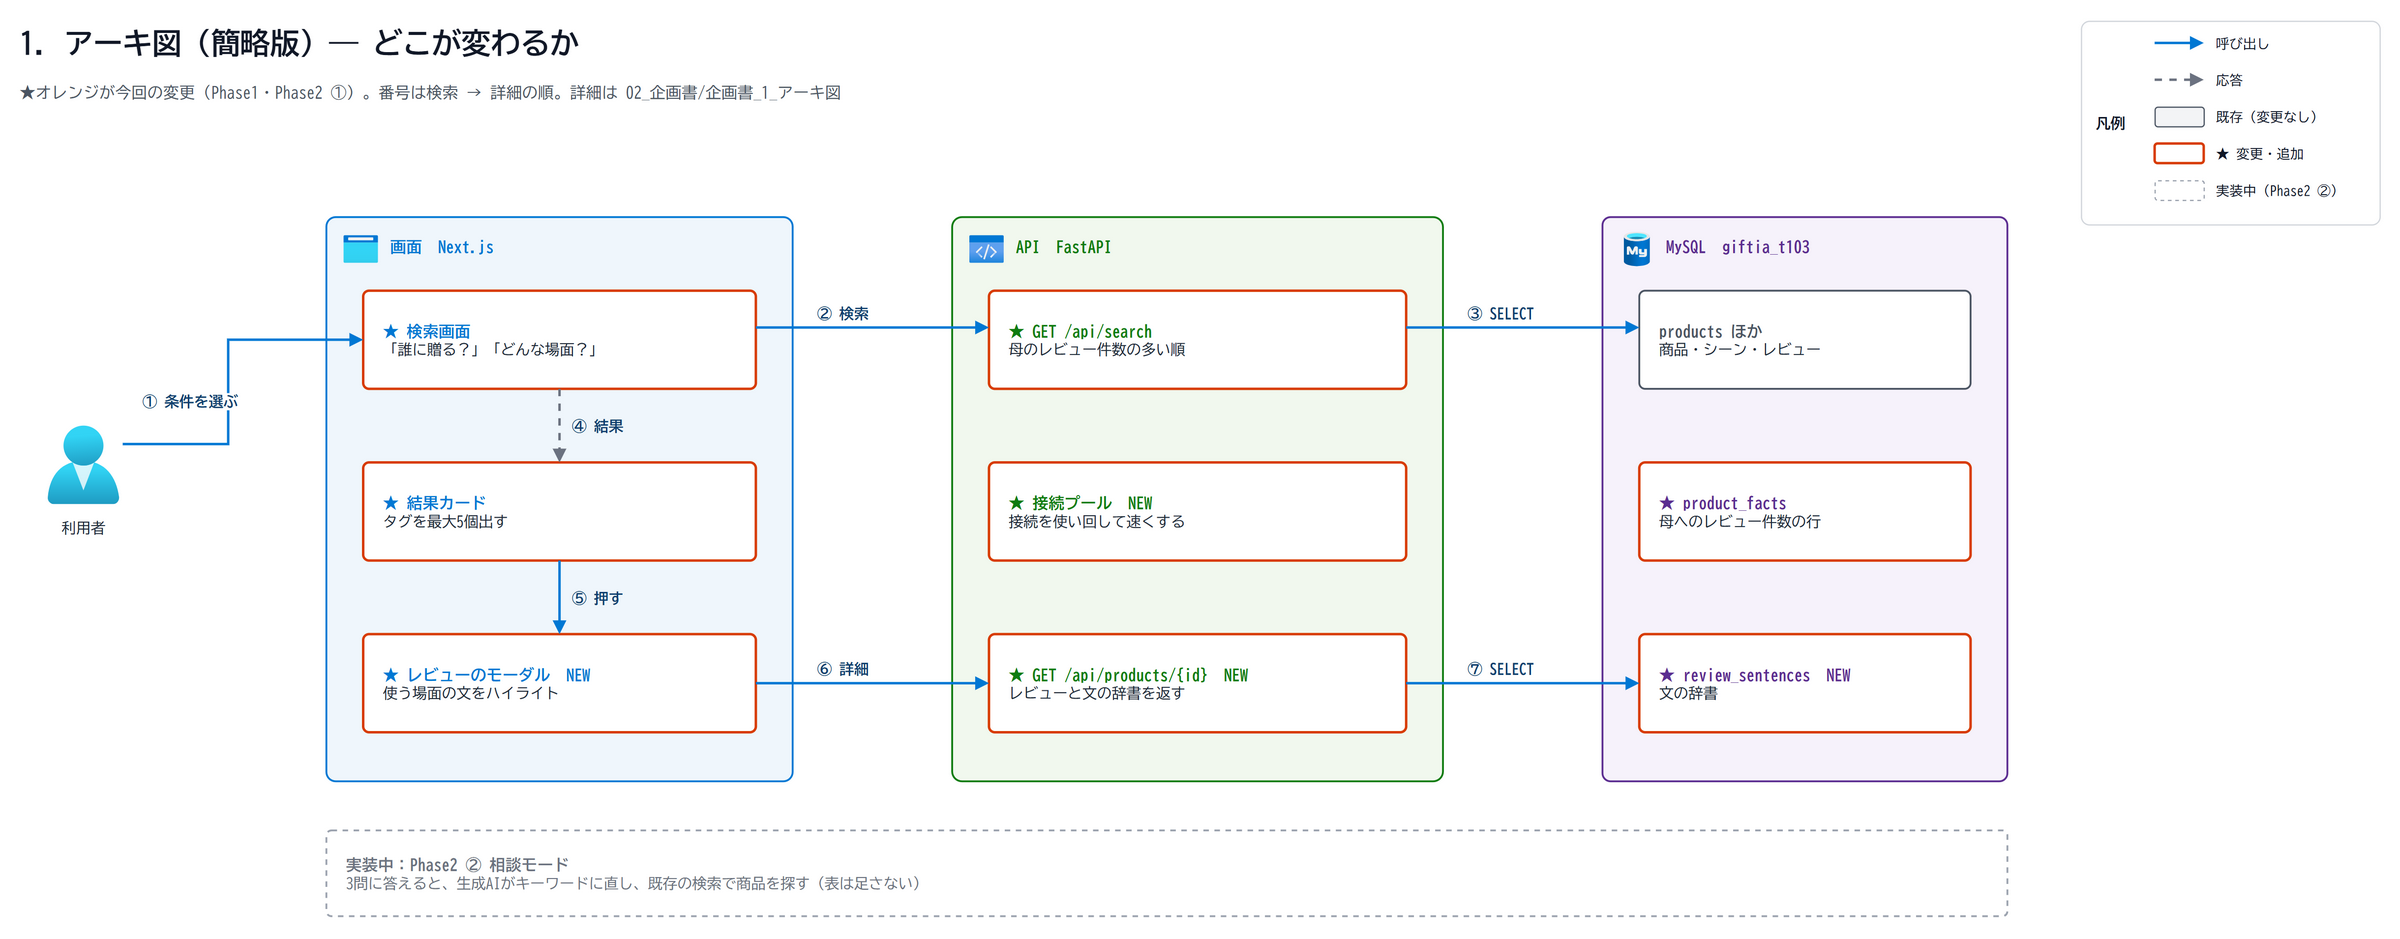
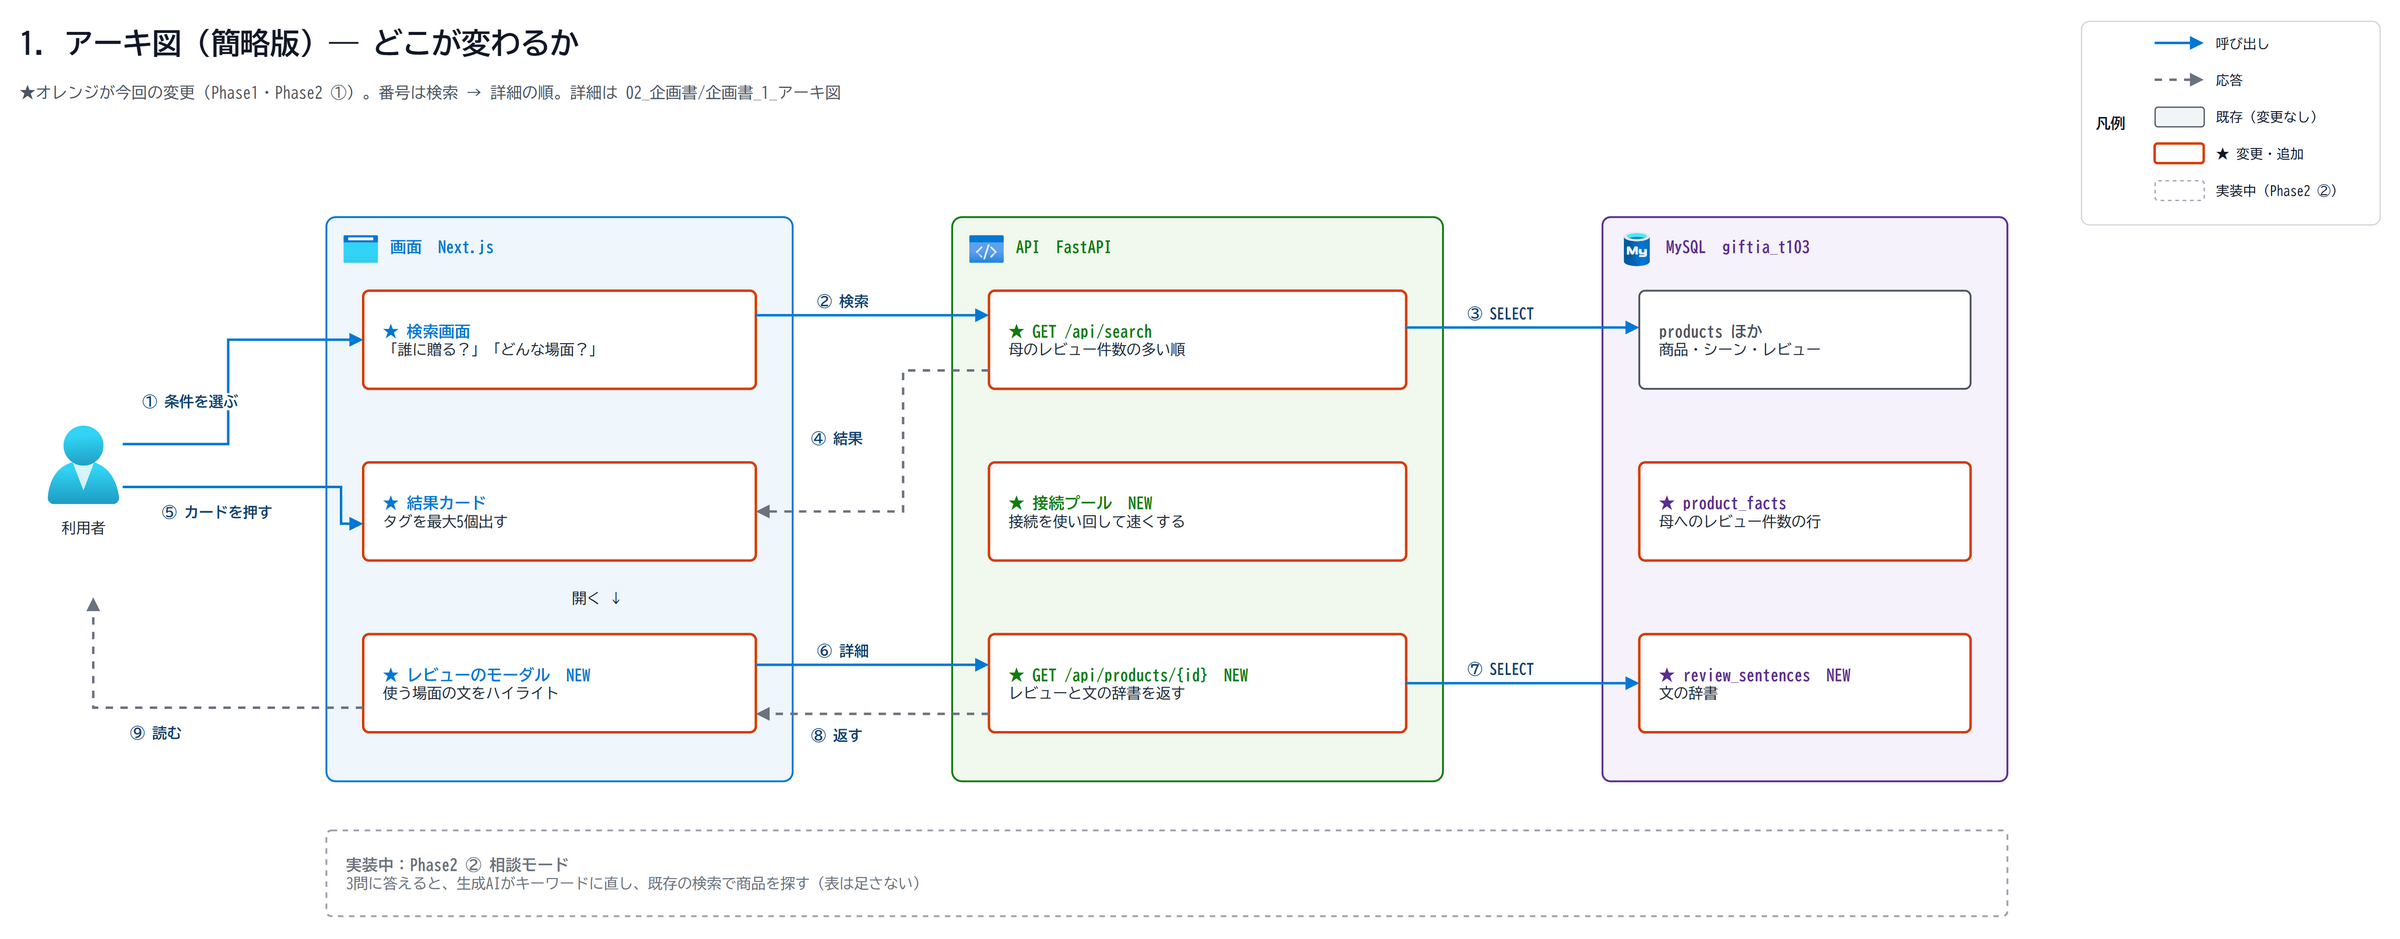
docs(docs): 簡略版のアーキ図に利用者の操作と戻りを足し、番号をシーケンス図とそろえる

diff --git a/docs/図/scripts/simple_figures.py b/docs/図/scripts/simple_figures.py
@@ -47,13 +47,17 @@ d.node(1320, 220, 270, 80, "products ほか", "商品・シーン・レビュー
 d.node(1320, 360, 270, 80, "★ product_facts", "母へのレビュー件数の行", "db", highlight=True)
 d.node(1320, 500, 270, 80, "★ review_sentences　NEW", "文の辞書", "db", highlight=True)
 
+# 番号はシーケンス図（2_シーケンス図）と同じ。利用者の操作（①⑤）と、利用者に返る戻り（⑨）も描く
 d.edge([(84, 345), (170, 345), (170, 260), (280, 260)], "req");  d.num(100, 300, "① 条件を選ぶ", align="left")
-d.edge([(600, 250), (790, 250)], "req");                         d.num(650, 228, "② 検索", align="left", bg=None)
+d.edge([(600, 240), (790, 240)], "req");                         d.num(650, 218, "② 検索", align="left", bg=None)
 d.edge([(1130, 250), (1320, 250)], "req");                       d.num(1180, 228, "③ SELECT", align="left", bg=None)
-d.edge([(440, 300), (440, 360)], "res");                         d.num(450, 320, "④ 結果", align="left", bg=None)
-d.edge([(440, 440), (440, 500)], "req");                         d.num(450, 460, "⑤ 押す", align="left", bg=None)
-d.edge([(600, 540), (790, 540)], "req");                         d.num(650, 518, "⑥ 詳細", align="left", bg=None)
+d.edge([(790, 285), (720, 285), (720, 400), (600, 400)], "res"); d.num(645, 330, "④ 結果", align="left", bg=None)
+d.edge([(84, 380), (262, 380), (262, 410), (280, 410)], "req");  d.num(116, 390, "⑤ カードを押す", align="left")
+d.text(450, 455, 80, 30, "開く ↓", size=12, align="left")
+d.edge([(600, 525), (790, 525)], "req");                         d.num(650, 503, "⑥ 詳細", align="left", bg=None)
 d.edge([(1130, 540), (1320, 540)], "req");                       d.num(1180, 518, "⑦ SELECT", align="left", bg=None)
+d.edge([(790, 565), (600, 565)], "res");                         d.num(645, 572, "⑧ 返す", align="left", bg=None)
+d.edge([(280, 560), (60, 560), (60, 470)], "res");               d.num(90, 570, "⑨ 読む", align="left")
 d.node(250, 660, 1370, 70, "実装中：Phase2 ② 相談モード", "3問に答えると、生成AIがキーワードに直し、既存の検索で商品を探す（表は足さない）", "api", muted=True)
 run(d, "1_アーキ図", "アーキ図")
 
